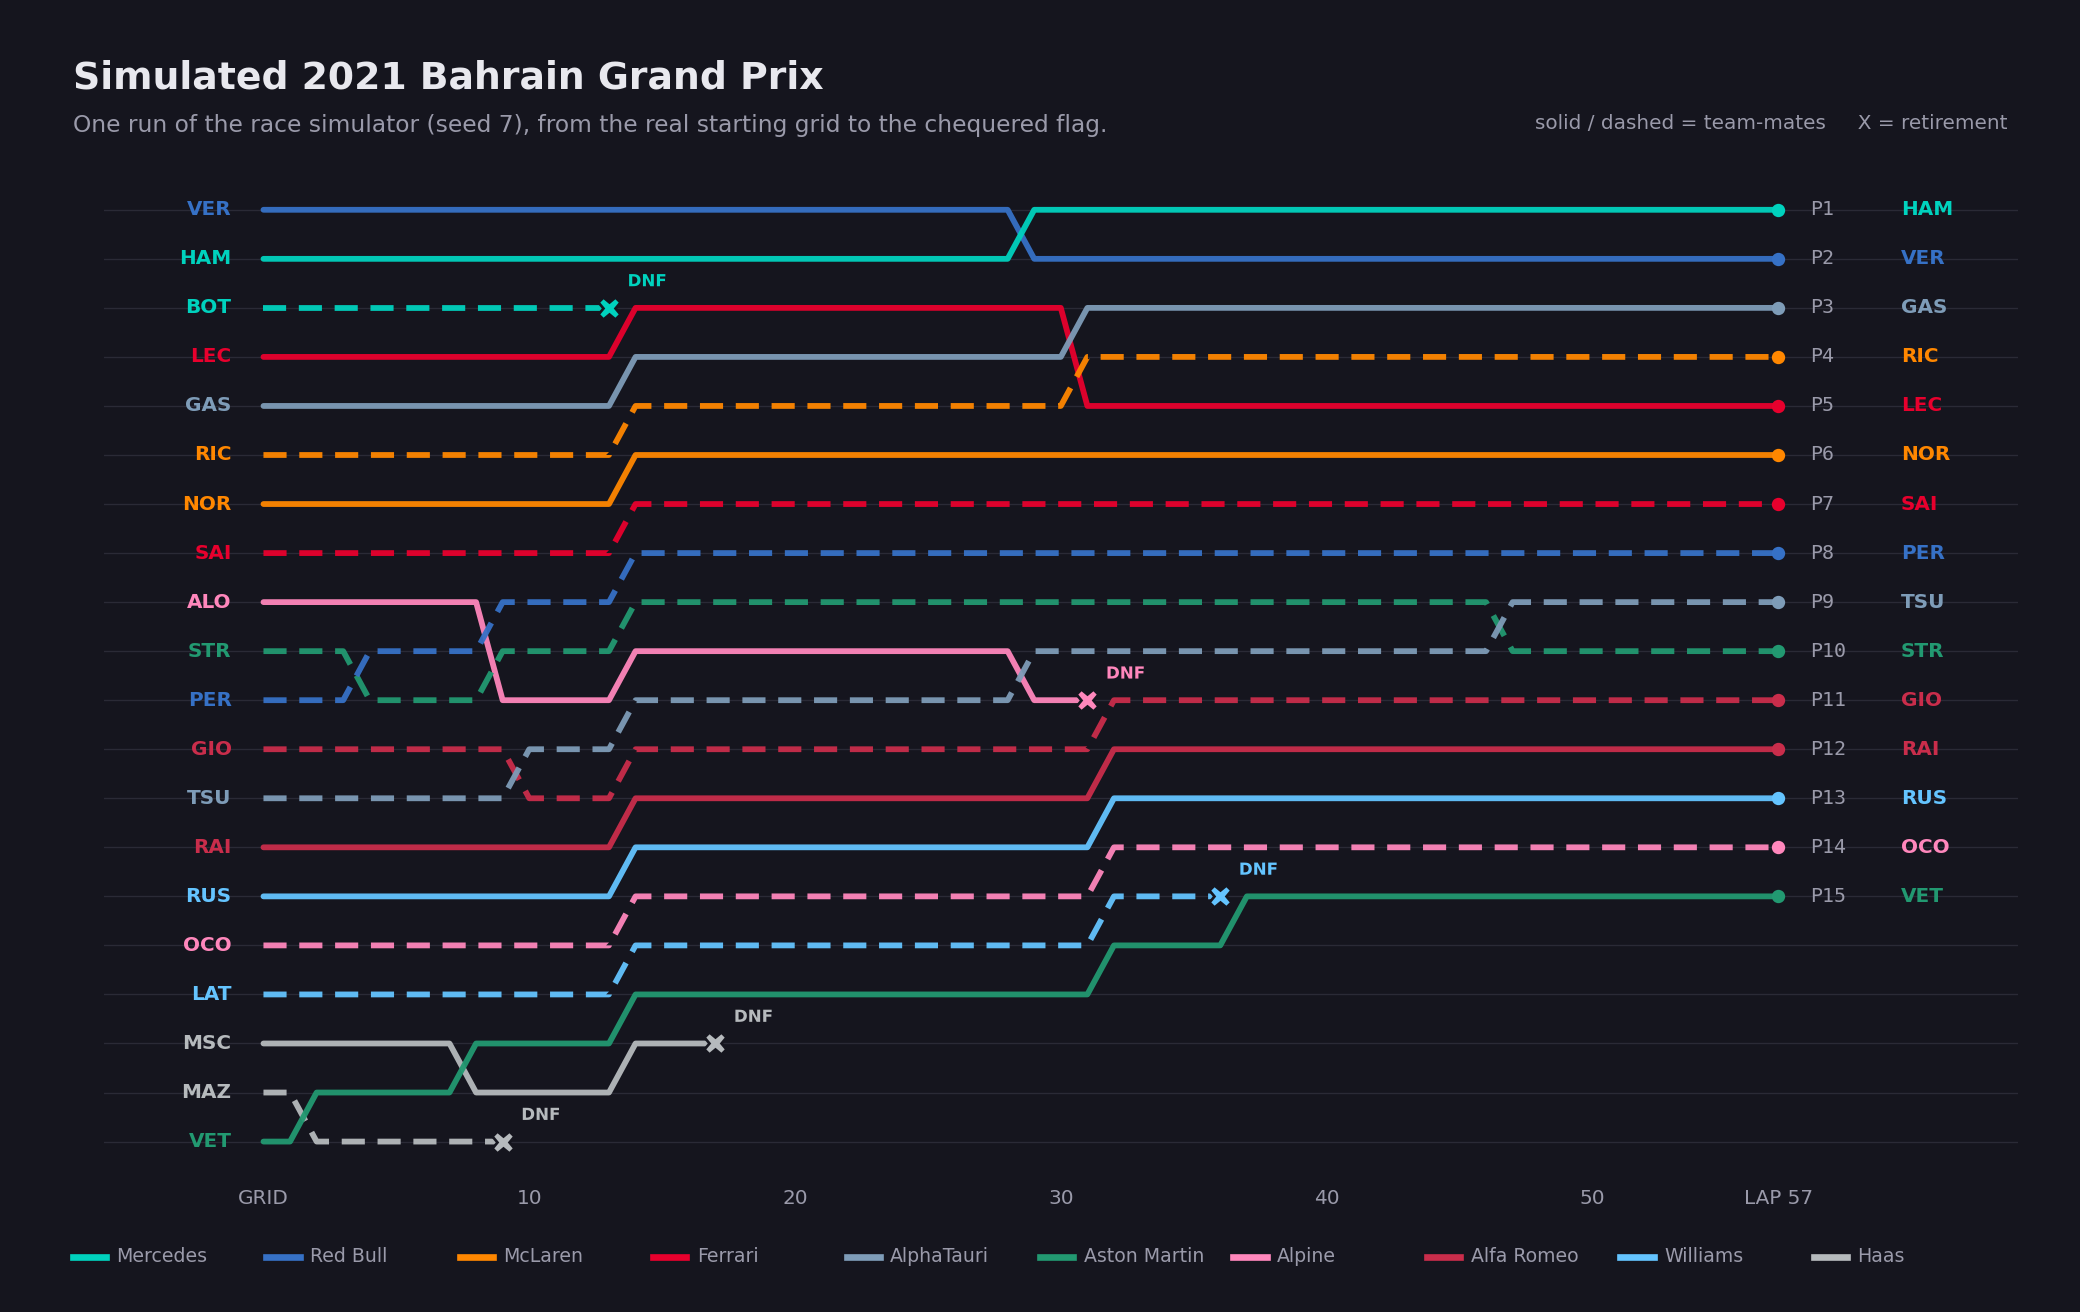
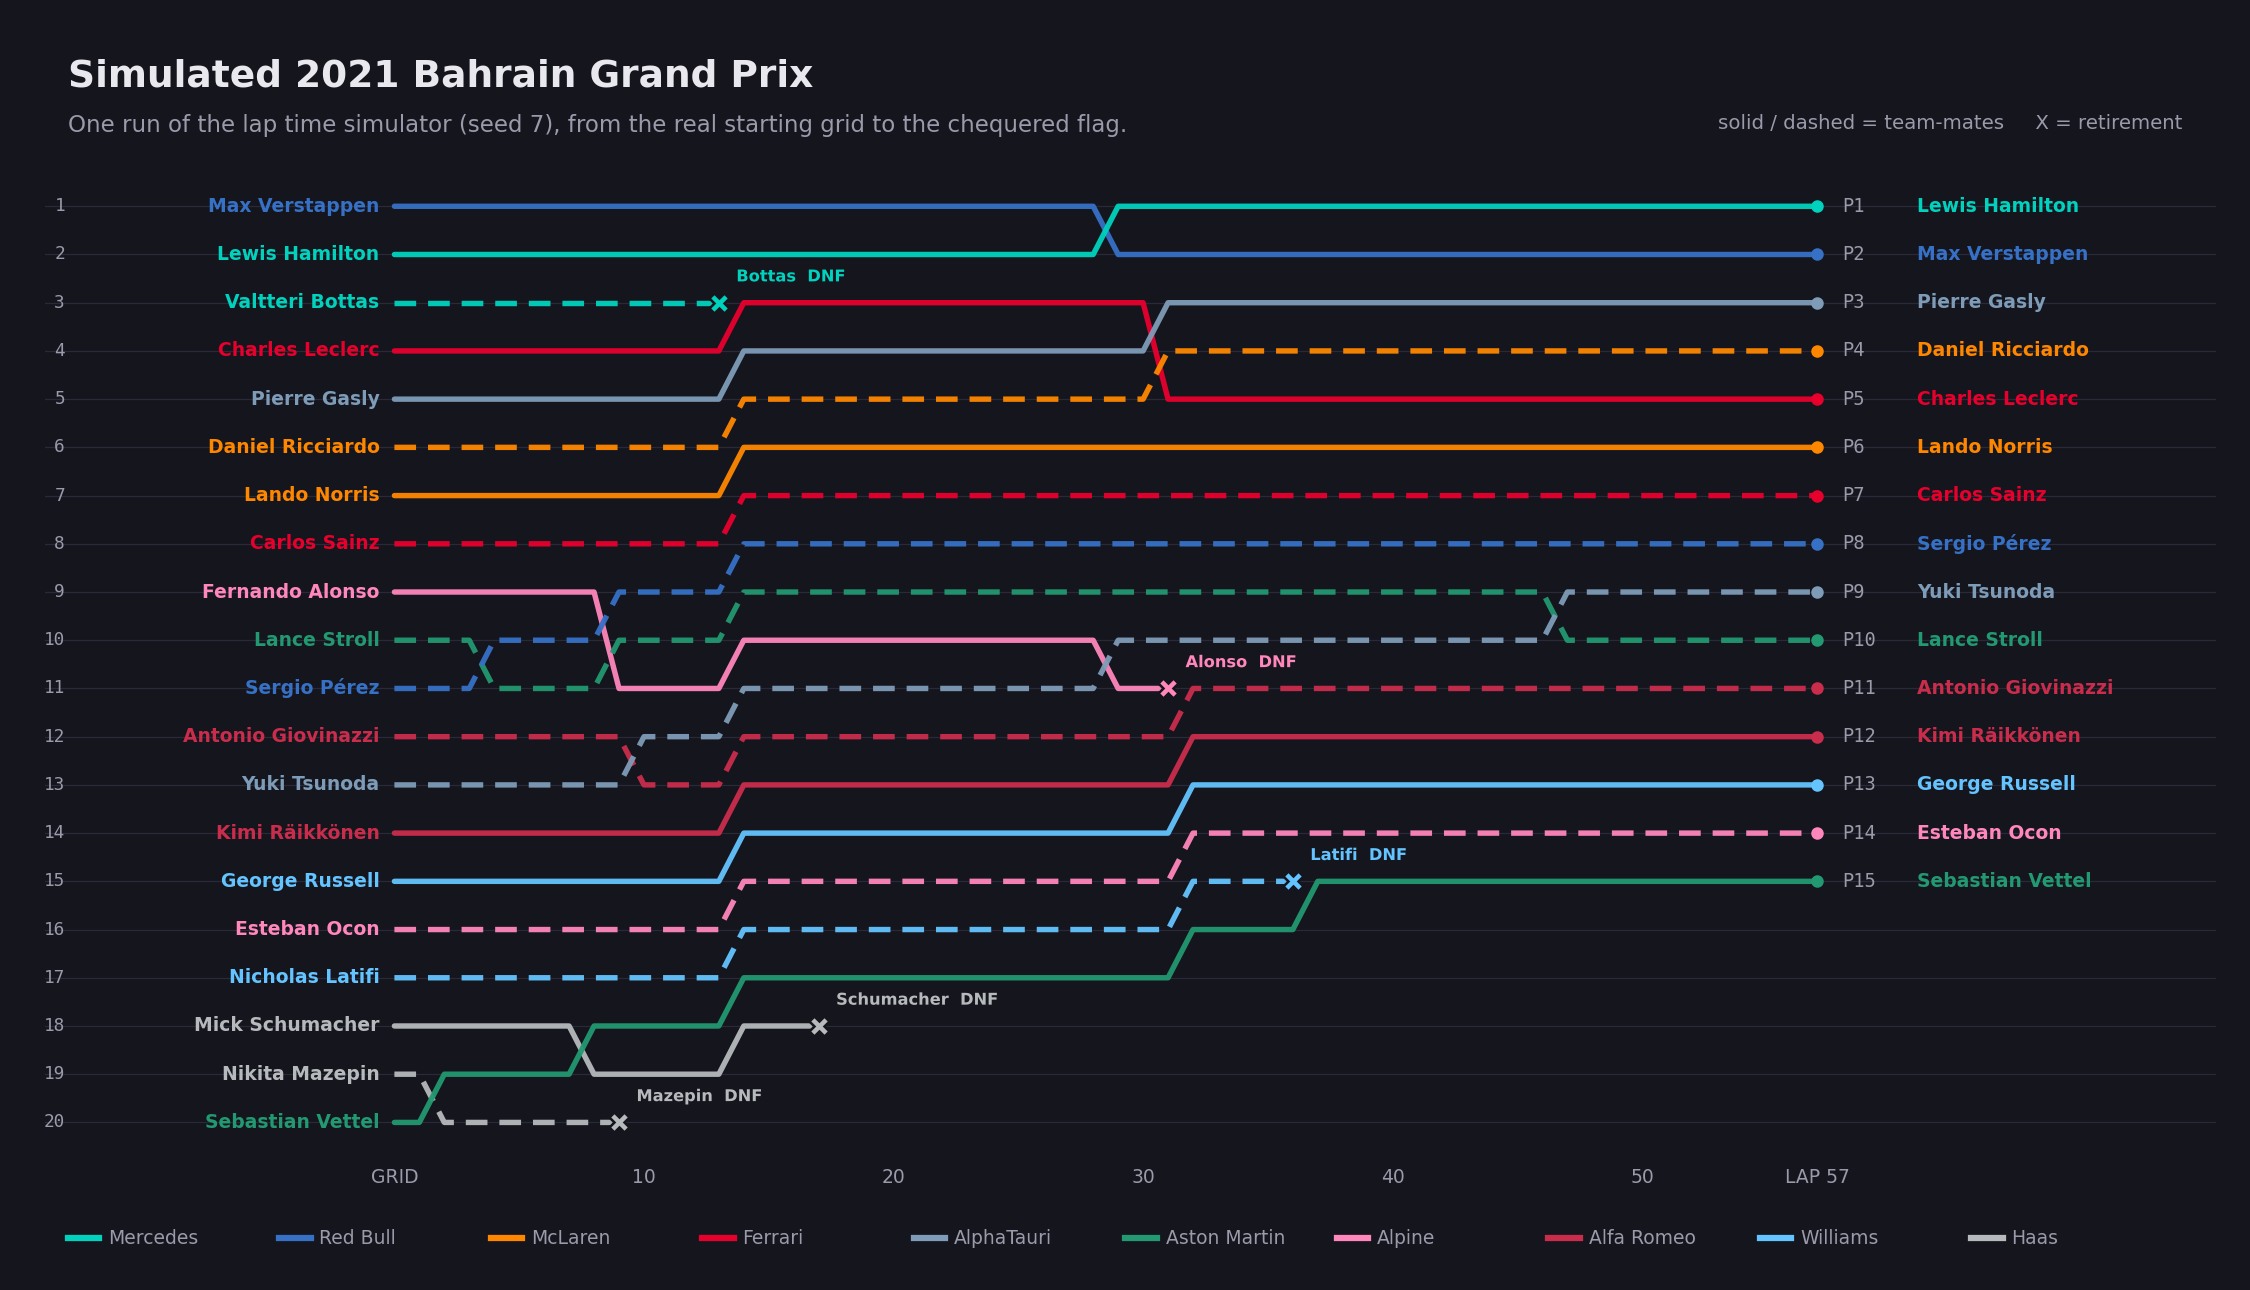
Call it a lap time simulator; full driver names in figure

diff --git a/README.md b/README.md
@@ -1,14 +1,14 @@
-# Formula 1 Race Simulator
+# Formula 1 Lap Time Simulator
 
 My undergraduate thesis project (B.E. Computer Engineering, Ankara University, 2021–2022, advisor Yılmaz Ar).
 
 All code in this repository was written by hand in 2021–2022, without any AI tools, and is published as it was written. The only change is that one unused, commented-out block in `dataFrame.py` from a later experiment was removed. This README and the figure in `docs/` were added later.
 
-The goal was to simulate Formula 1 races from practice and qualifying pace, as a basis for comparing pit strategies. The model is my attempt to reproduce the race simulator described by f1metrics in [Building a race simulator](https://f1metrics.wordpress.com/2014/10/03/building-a-race-simulator/) (2014), rebuilt from scratch with data from the 2021 season. The project has two parts: collecting clean data from messy public sources, and a lap-by-lap race simulator built on that data.
+The goal was to simulate Formula 1 races lap by lap from practice and qualifying pace, as a basis for comparing pit strategies. The model is my attempt to reproduce the simulator described by f1metrics in [Building a race simulator](https://f1metrics.wordpress.com/2014/10/03/building-a-race-simulator/) (2014), rebuilt from scratch with data from the 2021 season. The project has two parts: collecting clean data from messy public sources, and a lap time simulator built on that data.
 
 ![Simulated 2021 Bahrain Grand Prix](docs/bahrain_2021_positions.png)
 
-*One run of the simulator for the 2021 Bahrain Grand Prix, drawn from the simulator's lap-by-lap positions.*
+*One run of the lap time simulator for the 2021 Bahrain Grand Prix, drawn from the simulator's lap-by-lap positions.*
 
 ## Data collection
 
@@ -21,9 +21,9 @@ The goal was to simulate Formula 1 races from practice and qualifying pace, as a
 
 The FIA PDFs are laid out for printing, not for parsing. `pdftotext.py` extracts the raw text with PyPDF2 and `textMethods.py` cleans it: it removes headers, splits the text into driver blocks, finds driver names and numbers, and recovers lap numbers, lap times and pit laps. Each driver becomes a `classDriver` object (`driver.py`).
 
-## Race model
+## Simulation model
 
-The simulator (`raceSimulate.py`) runs a full race lap by lap for 20 drivers:
+The simulator (`raceSimulate.py`) generates a lap time for each of the 20 drivers on every lap and builds the race from them:
 
 - **Race pace.** Each driver's base lap time comes from their second practice (FP2) pace, corrected by how far they were from the fastest driver in FP2 and in qualifying.
 - **Lap time variability.** Every lap adds a random term sized by the driver's own lap-to-lap variability, estimated from past races.
@@ -56,7 +56,7 @@ The model is a thesis prototype and is not calibrated against real race times.
 
 ```
 f1_data/
-  pdfToText/          data parsing, driver model and race simulator
+  pdfToText/          data parsing, driver model and lap time simulator
     main.py           full pipeline: practice PDFs, qualifying, race data, simulation
     raceSimulate.py   lap-by-lap race simulation for the 2021 season
     driver.py         driver class: lap generation, DNF, spin, DRS
